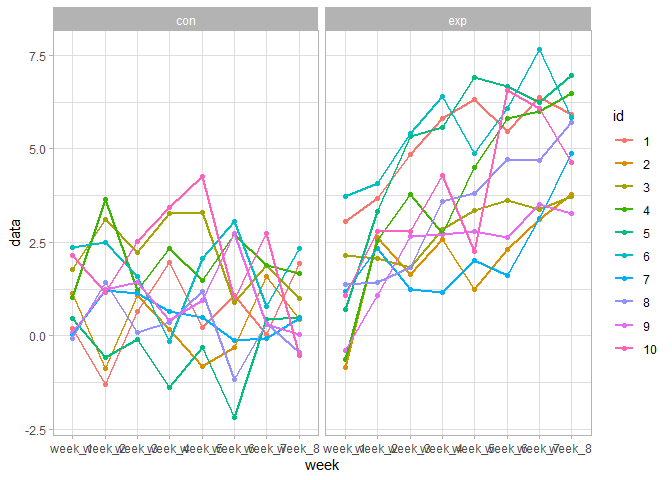
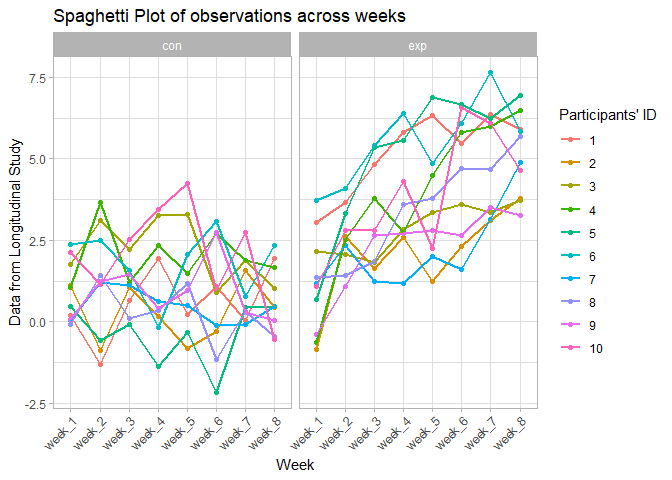
Renovation on plots and comments

diff --git a/p8105_hw5_jg4197.md b/p8105_hw5_jg4197.md
@@ -61,12 +61,25 @@ data_df <- data_frame(long_file) %>%
 
 
 ## making a plot for longitude data
-data_df %>% ggplot(aes(x = week, y = data, group = id)) +
+data_df %>% 
+  ggplot(aes(x = week, y = data, group = id)) +
   geom_point(aes(color = id)) + geom_line(aes(color = id), size = .8) +
-  facet_wrap(group ~.) + theme_light()
+  facet_wrap(group ~.) + theme_light() + 
+  theme(axis.text.x = element_text(angle = 45, hjust = 1)) +
+  labs(
+    title = "Spaghetti Plot of observations across weeks",
+    x = "Week",
+    y = "Data from Longitudinal Study",
+    col = "Participants' ID"
+  )
 ```
 
 ![](p8105_hw5_jg4197_files/figure-gfm/unnamed-chunk-2-1.png)<!-- -->
+
+  - Totally, the baseline of two groups are almost equal, however, the
+    experimental arm increases more and the current is increaseing in a
+    wave pattern. The control arm can be regarded as keeping at one
+    level.
 
 ## problem 3 conducting simulation
 
@@ -85,15 +98,15 @@ sim_model <- function(beta1, beta0 = 2, n = 30){
           p_value = tidy_test[[2,5]])
 }
 
-output <- vector("list", length = 5000)
-for(i in 1:5000){
+output <- vector("list", length = 10000)
+for(i in 1:10000){
   output[[i]] = sim_model(0)
 }
 sim_result0 <- bind_rows(output)
 sim_result0
 ```
 
-    ## # A tibble: 5,000 x 2
+    ## # A tibble: 10,000 x 2
     ##    beta1_hat  p_value
     ##        <dbl>    <dbl>
     ##  1     2.02  0.207   
@@ -106,12 +119,12 @@ sim_result0
     ##  8     0.331 0.769   
     ##  9     0.576 0.670   
     ## 10     2.40  0.134   
-    ## # ... with 4,990 more rows
+    ## # ... with 9,990 more rows
 
 ``` r
-## repeat for beta1=1,2,3,4,5,6
+## repeat for beta1=0,1,2,3,4,5,6
 rerun_f <- function(beta1){
-  rerun(5000, sim_model(beta1))
+  rerun(10000, sim_model(beta1))
 }
 
 sim_result <- 
@@ -127,12 +140,21 @@ sim_result %>%
   group_by(beta1_true) %>% 
   summarize(obs_n = n(),
             freq_reject = sum(p_value < 0.05)/obs_n) %>% 
-  ggplot(aes(x = beta1_true, y = freq_reject)) + geom_bar(stat = "identity")
+  ggplot(aes(x = beta1_true, y = freq_reject)) + geom_bar(stat = "identity") +
+  scale_x_continuous(breaks = c(0,1,2,3,4,5,6)) +
+  labs(
+    title = "Frequency of rejected null across true beta2",
+    x = "The true value of beta2",
+    y = "Frequency of rejected estimation"
+  )
 ```
 
 ![](p8105_hw5_jg4197_files/figure-gfm/unnamed-chunk-3-1.png)<!-- -->
 
 ``` r
+# Comment: As the effect size increases, the frequency of rejecting the null increases and has the quickiest increasing rate during the effect size between 1 to 4
+
+
 ### making plot
 reject_mean <- sim_result %>% 
   filter(p_value < 0.05) %>% 
@@ -142,9 +164,20 @@ reject_mean <- sim_result %>%
 sim_result %>% 
   group_by(beta1_true) %>% 
   summarize(average = mean(beta1_hat)) %>% 
-  ggplot(aes(x = beta1_true, y = average)) + geom_bar(stat = "identity") + 
-  geom_bar(data = reject_mean, stat = "identity", alpha = .55) + 
+  ggplot(aes(x = beta1_true, y = average)) + geom_bar(stat = "identity", fill = "yellow") + 
+  geom_bar(data = reject_mean, stat = "identity", alpha = .55, fill = "purple") + 
+  labs(
+    title = "Bar plot of average estimates of beta1",
+    x = "Average estimates of beta1",
+    y = "The true value"
+  ) + 
   scale_x_continuous(breaks = c(0,1,2,3,4,5,6)) + theme_classic()
 ```
 
 ![](p8105_hw5_jg4197_files/figure-gfm/unnamed-chunk-3-2.png)<!-- -->
+
+``` r
+# Comment: the sample average of estimates across tests for which the null is rejected does not completely equal to the true value. The difference between two becomes small when true value increases. When true values is zero, the avarage of all estimates is zero and rejected avarage is below zero.
+
+# Reason: the true value is not equal to zero that means the true result of hypothesis testing is rejecting. The rejecting estimates should be far more different from the true value. Therefore, the avarage rejected estimates should be larger than true value.
+```
